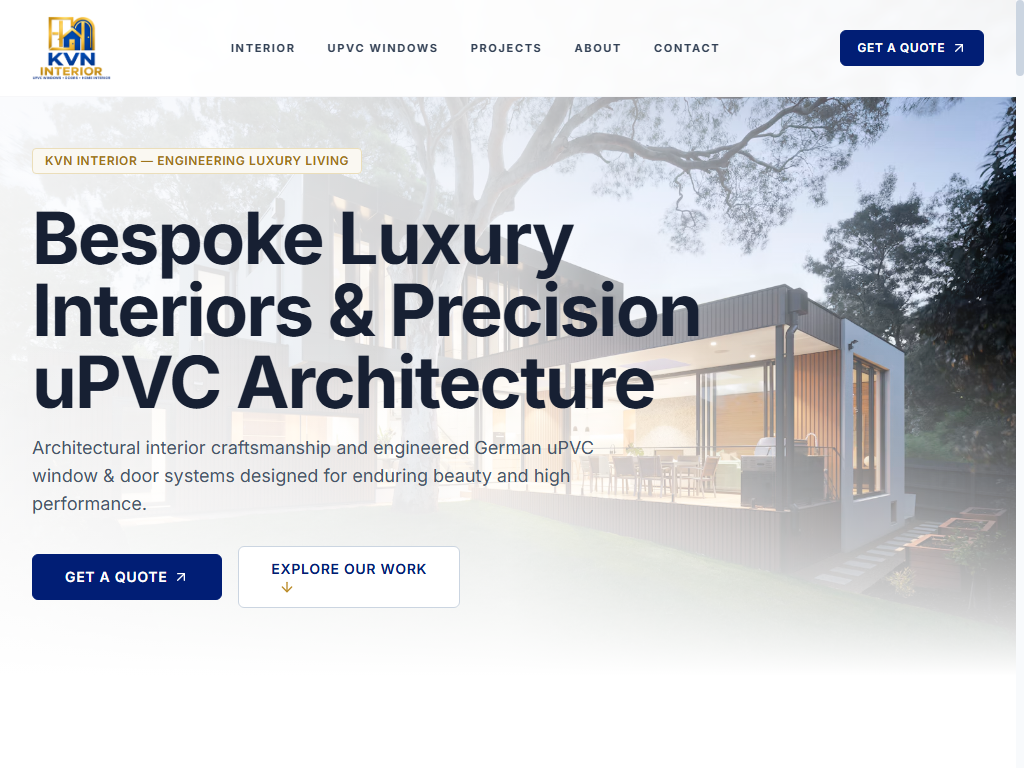
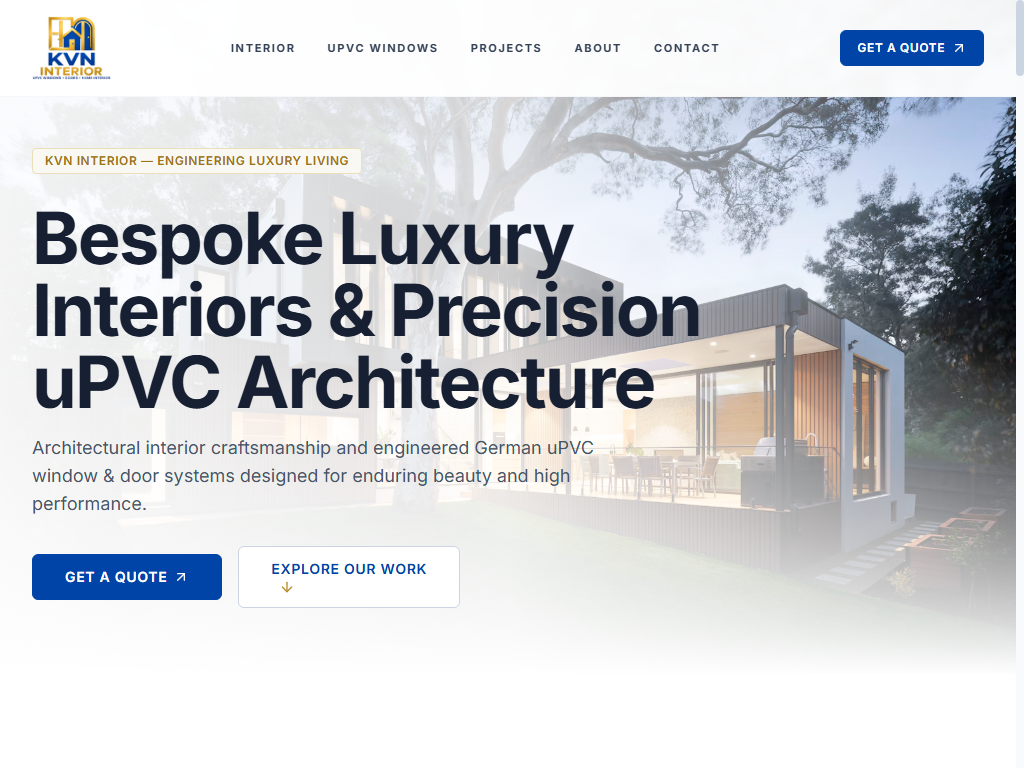
feat(web): update locked primary brand colour to #0044A7 and remove blue overlay on contact building photo

Changed region(s): [[0.0312, 0.7188, 0.2188, 0.7812], [0.8125, 0.0312, 0.9688, 0.0938], [0.25, 0.7188, 0.4062, 0.75]]

diff --git a/apps/web/app/components/UpvcSection.tsx b/apps/web/app/components/UpvcSection.tsx
@@ -140,7 +140,7 @@ function InstallationCarousel() {
             disabled={!canScrollLeft}
             aria-label="Previous installations"
             aria-controls="installation-carousel-track"
-            className="w-9 h-9 sm:w-10 sm:h-10 rounded-full bg-[#011E75] text-white flex items-center justify-center border border-[#CE9E34]/40 shadow-sm transition-all duration-200 hover:bg-[#022899] hover:border-[#CE9E34] hover:shadow-[0_0_12px_rgba(206,158,52,0.3)] focus-visible:outline-none focus-visible:ring-2 focus-visible:ring-[#CE9E34] focus-visible:ring-offset-2 active:scale-95 disabled:opacity-30 disabled:cursor-not-allowed disabled:hover:bg-[#011E75] disabled:hover:border-[#CE9E34]/40 disabled:hover:shadow-none disabled:active:scale-100 cursor-pointer"
+            className="w-9 h-9 sm:w-10 sm:h-10 rounded-full bg-[#0044A7] text-white flex items-center justify-center border border-[#CE9E34]/40 shadow-sm transition-all duration-200 hover:bg-[#00388A] hover:border-[#CE9E34] hover:shadow-[0_0_12px_rgba(206,158,52,0.3)] focus-visible:outline-none focus-visible:ring-2 focus-visible:ring-[#CE9E34] focus-visible:ring-offset-2 active:scale-95 disabled:opacity-30 disabled:cursor-not-allowed disabled:hover:bg-[#0044A7] disabled:hover:border-[#CE9E34]/40 disabled:hover:shadow-none disabled:active:scale-100 cursor-pointer"
           >
             <ChevronLeft className="w-4 h-4 sm:w-5 sm:h-5 text-white" strokeWidth={2.5} />
           </button>
@@ -150,7 +150,7 @@ function InstallationCarousel() {
             disabled={!canScrollRight}
             aria-label="Next installations"
             aria-controls="installation-carousel-track"
-            className="w-9 h-9 sm:w-10 sm:h-10 rounded-full bg-[#011E75] text-white flex items-center justify-center border border-[#CE9E34]/40 shadow-sm transition-all duration-200 hover:bg-[#022899] hover:border-[#CE9E34] hover:shadow-[0_0_12px_rgba(206,158,52,0.3)] focus-visible:outline-none focus-visible:ring-2 focus-visible:ring-[#CE9E34] focus-visible:ring-offset-2 active:scale-95 disabled:opacity-30 disabled:cursor-not-allowed disabled:hover:bg-[#011E75] disabled:hover:border-[#CE9E34]/40 disabled:hover:shadow-none disabled:active:scale-100 cursor-pointer"
+            className="w-9 h-9 sm:w-10 sm:h-10 rounded-full bg-[#0044A7] text-white flex items-center justify-center border border-[#CE9E34]/40 shadow-sm transition-all duration-200 hover:bg-[#00388A] hover:border-[#CE9E34] hover:shadow-[0_0_12px_rgba(206,158,52,0.3)] focus-visible:outline-none focus-visible:ring-2 focus-visible:ring-[#CE9E34] focus-visible:ring-offset-2 active:scale-95 disabled:opacity-30 disabled:cursor-not-allowed disabled:hover:bg-[#0044A7] disabled:hover:border-[#CE9E34]/40 disabled:hover:shadow-none disabled:active:scale-100 cursor-pointer"
           >
             <ChevronRight className="w-4 h-4 sm:w-5 sm:h-5 text-white" strokeWidth={2.5} />
           </button>
@@ -164,7 +164,7 @@ function InstallationCarousel() {
         role="region"
         aria-label="Window and Door Installations Carousel"
         tabIndex={0}
-        className="flex gap-4 sm:gap-6 overflow-x-auto scroll-smooth snap-x snap-mandatory py-2 px-1 focus:outline-none focus-visible:ring-2 focus-visible:ring-[#011E75] rounded-xl scrollbar-none [&::-webkit-scrollbar]:hidden [-ms-overflow-style:none] [scrollbar-width:none]"
+        className="flex gap-4 sm:gap-6 overflow-x-auto scroll-smooth snap-x snap-mandatory py-2 px-1 focus:outline-none focus-visible:ring-2 focus-visible:ring-[#0044A7] rounded-xl scrollbar-none [&::-webkit-scrollbar]:hidden [-ms-overflow-style:none] [scrollbar-width:none]"
         style={{ WebkitOverflowScrolling: 'touch' }}
       >
         {upvcGallery.map((item, i) => (

diff --git a/apps/web/app/components/FinalCtaSection.tsx b/apps/web/app/components/FinalCtaSection.tsx
@@ -18,37 +18,47 @@ export default function FinalCtaSection() {
   return (
     <Section background="white" padding="default" className="relative overflow-hidden">
       <Container>
-        <div className="relative rounded-panel overflow-hidden bg-gradient-to-br from-[#011E75] via-[#01185E] to-[#001247] text-white p-6 sm:p-10 lg:p-14 shadow-2xl border border-[#CE9E34]/40">
-          {/* Subtle Background Image Overlay */}
-          <div className="absolute inset-0 z-0 opacity-15">
+        <div className="relative rounded-panel overflow-hidden shadow-xl border border-gray-200/90 p-6 sm:p-10 lg:p-14">
+          {/* Natural Background Photograph — Zero Blue Filters, Zero Artificial Color Grading */}
+          <div className="absolute inset-0 z-0">
             <Image
               src={bgImage}
-              alt="Residential Project View"
+              alt="Architectural Building and Interior View"
               fill
-              sizes="100vw"
+              sizes="(max-width: 1280px) 100vw, 1280px"
               className="object-cover object-center"
+              quality={90}
             />
           </div>
+
+          {/* Subtle Neutral Dark Scrim — Preserves 100% of Natural Building Colors & Architectural Details while Ensuring Text Readability */}
+          <div className="absolute inset-0 z-[1] bg-black/40" />
 
           {/* Content */}
           <div className="relative z-10 max-w-2xl mx-auto text-center">
             <FadeIn direction="up">
               {brandEyebrow && (
-                <span className="text-[11px] uppercase tracking-[0.25em] text-[#CE9E34] font-black block mb-3">
+                <span className="text-[11px] uppercase tracking-[0.25em] text-[#CE9E34] font-black block mb-3 drop-shadow-sm">
                   {brandEyebrow}
                 </span>
               )}
 
-              <h2 className="font-sans text-2xl sm:text-4xl lg:text-5xl xl:text-6xl font-bold tracking-tight text-white mb-3.5 sm:mb-4 uppercase leading-[1.1]">
-                {contact.heading || "LET'S CREATE YOUR SPACE."}
+              <h2 className="font-sans text-2xl sm:text-4xl lg:text-5xl font-bold tracking-tight text-white mb-3.5 sm:mb-4 uppercase leading-[1.15] drop-shadow-sm">
+                {contact.heading || "LET'S DISCUSS YOUR PROJECT"}
               </h2>
 
-              <p className="text-sm sm:text-base text-blue-100/90 font-normal leading-relaxed mb-6 sm:mb-8 max-w-lg mx-auto">
+              <p className="text-sm sm:text-base text-white/95 font-normal leading-relaxed mb-6 sm:mb-8 max-w-lg mx-auto drop-shadow-xs">
                 {contact.description || 'Schedule an initial consultation with our interior and window specialists to explore possibilities for your home.'}
               </p>
 
               <div className="flex justify-center">
-                <Button href="#contact" variant="primary" size="lg" icon className="bg-[#CE9E34] hover:bg-[#D4A328] text-[#011E75] font-bold border-none shadow-gold-glow transition-all hover:scale-[1.02]">
+                <Button
+                  href="#contact"
+                  variant="primary"
+                  size="lg"
+                  icon
+                  className="bg-[#0044A7] hover:bg-[#00388A] text-white font-bold border border-[#0044A7] hover:border-[#CE9E34] shadow-md transition-all hover:scale-[1.02]"
+                >
                   {ctaLabel}
                 </Button>
               </div>

diff --git a/apps/web/app/components/TestimonialsSection.tsx b/apps/web/app/components/TestimonialsSection.tsx
@@ -70,7 +70,7 @@ export default function TestimonialsSection() {
 
               <div className="flex flex-col sm:flex-row sm:items-center justify-between gap-4 border-t border-gray-100 pt-4 sm:pt-5">
                 <div>
-                  <span className="block font-sans font-bold text-sm text-[#011E75]">
+                  <span className="block font-sans font-bold text-sm text-[#0044A7]">
                     {authorName}
                   </span>
                   {roleOrLocation && (
@@ -85,7 +85,7 @@ export default function TestimonialsSection() {
                   <div className="flex items-center gap-2">
                     <button
                       onClick={prevTestimonial}
-                      className="p-2 rounded-control bg-gray-50 hover:bg-[#FAF8F2] text-[#011E75] border border-gray-200 hover:border-[#CE9E34] transition-colors focus-ring cursor-pointer"
+                      className="p-2 rounded-control bg-gray-50 hover:bg-[#FAF8F2] text-[#0044A7] border border-gray-200 hover:border-[#CE9E34] transition-colors focus-ring cursor-pointer"
                       aria-label="Previous testimonial"
                     >
                       <ChevronLeft className="w-4 h-4" />
@@ -95,7 +95,7 @@ export default function TestimonialsSection() {
                     </span>
                     <button
                       onClick={nextTestimonial}
-                      className="p-2 rounded-control bg-gray-50 hover:bg-[#FAF8F2] text-[#011E75] border border-gray-200 hover:border-[#CE9E34] transition-colors focus-ring cursor-pointer"
+                      className="p-2 rounded-control bg-gray-50 hover:bg-[#FAF8F2] text-[#0044A7] border border-gray-200 hover:border-[#CE9E34] transition-colors focus-ring cursor-pointer"
                       aria-label="Next testimonial"
                     >
                       <ChevronRight className="w-4 h-4" />

diff --git a/apps/web/tailwind.config.ts b/apps/web/tailwind.config.ts
@@ -21,11 +21,11 @@ const config: Config = {
           300: '#92B0E9',
           400: '#5E8BDD',
           500: '#2B5EC7',
-          600: '#011E75', // Official KVN Royal Navy Blue
-          700: '#01185E',
-          800: '#011247',
-          900: '#000D33',
-          navy: '#011E75',
+          600: '#0044A7', // Official KVN Locked Primary Blue
+          700: '#00388A',
+          800: '#002D6E',
+          900: '#001D47',
+          navy: '#0044A7',
           gold: '#CE9E34',
           'gold-light': '#DFB95C',
           'gold-dark': '#A87D20',
@@ -50,10 +50,10 @@ const config: Config = {
           300: '#92B0E9',
           400: '#5E8BDD',
           500: '#2B5EC7',
-          600: '#011E75',
-          700: '#01185E',
-          800: '#011247',
-          900: '#000D33',
+          600: '#0044A7',
+          700: '#00388A',
+          800: '#002D6E',
+          900: '#001D47',
         },
         charcoal: {
           600: '#475569', // Supporting Text
@@ -83,11 +83,11 @@ const config: Config = {
         '30': '7.5rem',  // 120px
       },
       boxShadow: {
-        subtle: '0 1px 2px rgb(1 30 117 / 0.06)',
-        overlay: '0 12px 32px rgb(1 30 117 / 0.14)',
-        'soft-sm': '0 1px 3px rgba(1, 30, 117, 0.04), 0 1px 2px rgba(1, 30, 117, 0.02)',
-        'soft-md': '0 4px 16px -2px rgba(1, 30, 117, 0.06)',
-        'soft-lg': '0 12px 32px -4px rgba(1, 30, 117, 0.08)',
+        subtle: '0 1px 2px rgb(0 68 167 / 0.06)',
+        overlay: '0 12px 32px rgb(0 68 167 / 0.14)',
+        'soft-sm': '0 1px 3px rgba(0, 68, 167, 0.04), 0 1px 2px rgba(0, 68, 167, 0.02)',
+        'soft-md': '0 4px 16px -2px rgba(0, 68, 167, 0.06)',
+        'soft-lg': '0 12px 32px -4px rgba(0, 68, 167, 0.08)',
         'gold-glow': '0 0 20px -4px rgba(206, 158, 52, 0.35)',
       },
     },

diff --git a/apps/web/app/components/ContactSection.tsx b/apps/web/app/components/ContactSection.tsx
@@ -246,7 +246,7 @@ export default function ContactSection() {
               </label>
               <span className="text-[11px] text-gray-500 font-medium">10-digit mobile</span>
             </div>
-            <div className="relative flex items-center rounded-[6px] border border-gray-300 bg-white overflow-hidden focus-within:ring-2 focus-within:ring-[#011E75] focus-within:border-[#011E75] shadow-xs">
+            <div className="relative flex items-center rounded-[6px] border border-gray-300 bg-white overflow-hidden focus-within:ring-2 focus-within:ring-[#0044A7] focus-within:border-[#0044A7] shadow-xs">
               <span className="inline-flex items-center px-3.5 py-3.5 bg-gray-100 text-charcoal-800 font-semibold text-xs sm:text-sm select-none border-r border-gray-300">
                 +91
               </span>
@@ -387,7 +387,7 @@ export default function ContactSection() {
 
               {/* Optional Public Notice / Advisory */}
               {hasNotice && (
-                <div className="p-4 rounded-[8px] bg-[#FAF8F2] border border-[#EBDEBA] text-[#011E75] text-xs sm:text-sm">
+                <div className="p-4 rounded-[8px] bg-[#FAF8F2] border border-[#EBDEBA] text-[#0044A7] text-xs sm:text-sm">
                   <div className="flex items-start gap-2.5">
                     <Info className="w-4 h-4 text-[#CE9E34] shrink-0 mt-0.5" />
                     <div className="space-y-1">

diff --git a/apps/web/components/ui/SocialControl.tsx b/apps/web/components/ui/SocialControl.tsx
@@ -243,7 +243,7 @@ export function SocialControl() {
                 {/* Header */}
                 <div className="flex items-center justify-between pb-3 mb-3 border-b border-slate-100 dark:border-slate-800">
                   <div className="flex items-center gap-2.5">
-                    <div className="w-7 h-7 rounded-full bg-[#011E75]/10 text-[#011E75] flex items-center justify-center shrink-0">
+                    <div className="w-7 h-7 rounded-full bg-[#0044A7]/10 text-[#0044A7] flex items-center justify-center shrink-0">
                       <MessageSquareMore className="w-4 h-4" />
                     </div>
                     <div>
@@ -454,8 +454,8 @@ export function SocialControl() {
         title="Contact and Social channels"
         className={`group relative w-14 h-14 rounded-full shadow-2xl flex items-center justify-center transition-all duration-200 hover:scale-105 active:scale-95 focus-ring ${
           isOpen
-            ? 'bg-[#01185E] text-white shadow-xl shadow-[#01185E]/40 ring-4 ring-[#CE9E34]/30'
-            : 'bg-[#011E75] hover:bg-[#01185E] text-white shadow-xl shadow-[#011E75]/35 ring-4 ring-[#CE9E34]/20'
+            ? 'bg-[#00388A] text-white shadow-xl shadow-[#00388A]/40 ring-4 ring-[#CE9E34]/30'
+            : 'bg-[#0044A7] hover:bg-[#00388A] text-white shadow-xl shadow-[#0044A7]/35 ring-4 ring-[#CE9E34]/20'
         }`}
       >
         {isOpen ? (

diff --git a/apps/web/app/components/ProjectGallerySection.tsx b/apps/web/app/components/ProjectGallerySection.tsx
@@ -184,8 +184,8 @@ export default function ProjectGallerySection() {
                     }}
                     className={`px-5 py-2.5 rounded-[6px] text-xs uppercase tracking-wider font-semibold transition-colors duration-200 focus-ring cursor-pointer shadow-xs ${
                       isActive
-                        ? 'bg-[#011E75] text-white border border-[#011E75]'
-                        : 'bg-white text-charcoal-700 hover:text-[#011E75] border border-gray-200/80 hover:border-[#CE9E34]'
+                        ? 'bg-[#0044A7] text-white border border-[#0044A7]'
+                        : 'bg-white text-charcoal-700 hover:text-[#0044A7] border border-gray-200/80 hover:border-[#CE9E34]'
                     }`}
                   >
                     {cat}
@@ -250,7 +250,7 @@ export default function ProjectGallerySection() {
 
                   {/* View Icon Button (Top Right) */}
                   <div className="absolute top-4 right-4 z-10 w-8 h-8 rounded-[6px] bg-white/90 backdrop-blur-md flex items-center justify-center text-charcoal-900 opacity-0 group-hover:opacity-100 group-focus-visible:opacity-100 transition-opacity duration-200 shadow-xs">
-                    <Maximize2 className="w-4 h-4 text-[#011E75]" />
+                    <Maximize2 className="w-4 h-4 text-[#0044A7]" />
                   </div>
 
                   {/* Content (Bottom Left) */}

diff --git a/apps/web/components/ui/Button.tsx b/apps/web/components/ui/Button.tsx
@@ -26,10 +26,10 @@ export function Button({
   const baseStyles = 'inline-flex items-center justify-center font-sans font-semibold text-xs uppercase tracking-wider transition-colors duration-200 rounded-[6px] focus-ring disabled:opacity-50 disabled:pointer-events-none cursor-pointer shadow-xs';
 
   const variantStyles = {
-    primary: 'bg-[#011E75] hover:bg-[#01185E] active:bg-[#011247] text-white border border-[#011E75] hover:border-[#CE9E34] shadow-xs hover:shadow-subtle',
-    secondary: 'bg-[#FAF8F2] hover:bg-[#F5EEDC] text-[#011E75] border border-[#EBDEBA] hover:border-[#CE9E34]',
-    outline: 'bg-white hover:bg-[#FAF8F2] text-[#011E75] border border-[#CBD5E1] hover:border-[#CE9E34] shadow-xs',
-    ghost: 'bg-transparent hover:bg-[#EEF2FC] text-[#475569] hover:text-[#011E75]',
+    primary: 'bg-[#0044A7] hover:bg-[#00388A] active:bg-[#002D6E] text-white border border-[#0044A7] hover:border-[#CE9E34] shadow-xs hover:shadow-subtle',
+    secondary: 'bg-[#FAF8F2] hover:bg-[#F5EEDC] text-[#0044A7] border border-[#EBDEBA] hover:border-[#CE9E34]',
+    outline: 'bg-white hover:bg-[#FAF8F2] text-[#0044A7] border border-[#CBD5E1] hover:border-[#CE9E34] shadow-xs',
+    ghost: 'bg-transparent hover:bg-[#EEF2FC] text-[#475569] hover:text-[#0044A7]',
   };
 
   const sizeStyles = {

diff --git a/apps/web/components/layout/Footer.tsx b/apps/web/components/layout/Footer.tsx
@@ -23,7 +23,7 @@ export default function Footer() {
   const address = contact?.address;
 
   return (
-    <footer className="bg-[#011654] text-white pt-10 sm:pt-12 pb-8 relative border-t border-[#0A2685]" role="contentinfo">
+    <footer className="bg-[#001D47] text-white pt-10 sm:pt-12 pb-8 relative border-t border-[#00388A]" role="contentinfo">
       <div className="max-w-7xl mx-auto px-4 sm:px-6 lg:px-8">
         <div className="grid grid-cols-1 md:grid-cols-12 gap-8 mb-8">
           
@@ -150,7 +150,7 @@ export default function Footer() {
         </div>
 
         {/* Bottom Bar */}
-        <div className="pt-6 border-t border-[#0A2685] flex flex-col sm:flex-row items-center justify-between gap-4 text-[11px] text-gray-300 font-normal">
+        <div className="pt-6 border-t border-[#002D6E] flex flex-col sm:flex-row items-center justify-between gap-4 text-[11px] text-gray-300 font-normal">
           <p>{copyrightText}</p>
           
           <button

diff --git a/apps/web/components/providers/DynamicFavicon.tsx b/apps/web/components/providers/DynamicFavicon.tsx
@@ -19,8 +19,8 @@ function generateFaviconSvg(letter: string): string {
   const svg = `<svg xmlns="http://www.w3.org/2000/svg" viewBox="0 0 100 100">
   <defs>
     <linearGradient id="kvnGrad" x1="0%" y1="0%" x2="100%" y2="100%">
-      <stop offset="0%" stop-color="#011E75"/>
-      <stop offset="100%" stop-color="#011247"/>
+      <stop offset="0%" stop-color="#0044A7"/>
+      <stop offset="100%" stop-color="#002D6E"/>
     </linearGradient>
   </defs>
   <rect width="100" height="100" rx="20" fill="url(#kvnGrad)" stroke="#CE9E34" stroke-width="4"/>
@@ -55,7 +55,7 @@ function generateFaviconPng(letter: string): Promise<string> {
       ctx.closePath();
 
       // Royal Navy Blue background
-      ctx.fillStyle = '#011E75';
+      ctx.fillStyle = '#0044A7';
       ctx.fill();
 
       // Metallic Gold border

diff --git a/apps/web/app/layout.tsx b/apps/web/app/layout.tsx
@@ -61,7 +61,7 @@ export default function RootLayout({
         <link rel="preconnect" href="https://fonts.gstatic.com" crossOrigin="anonymous" />
         <link href="https://fonts.googleapis.com/css2?family=Inter:wght@300;400;500;600;700;800&display=swap" rel="stylesheet" />
       </head>
-      <body className="bg-white text-charcoal-900 antialiased selection:bg-gold-200 selection:text-[#011E75]">
+      <body className="bg-white text-charcoal-900 antialiased selection:bg-gold-200 selection:text-[#0044A7]">
         <SmoothScrollProvider>
           <WebsiteContentProvider>
             <DynamicFavicon />

diff --git a/apps/web/app/components/FaqSection.tsx b/apps/web/app/components/FaqSection.tsx
@@ -63,7 +63,7 @@ export default function FaqSection() {
                   >
                     <span
                       className={`font-sans font-semibold text-base sm:text-lg transition-colors duration-200 ${
-                        isOpen ? 'text-[#011E75]' : 'text-charcoal-900 group-hover:text-[#011E75]'
+                        isOpen ? 'text-[#0044A7]' : 'text-charcoal-900 group-hover:text-[#0044A7]'
                       }`}
                     >
                       {faq.question}
